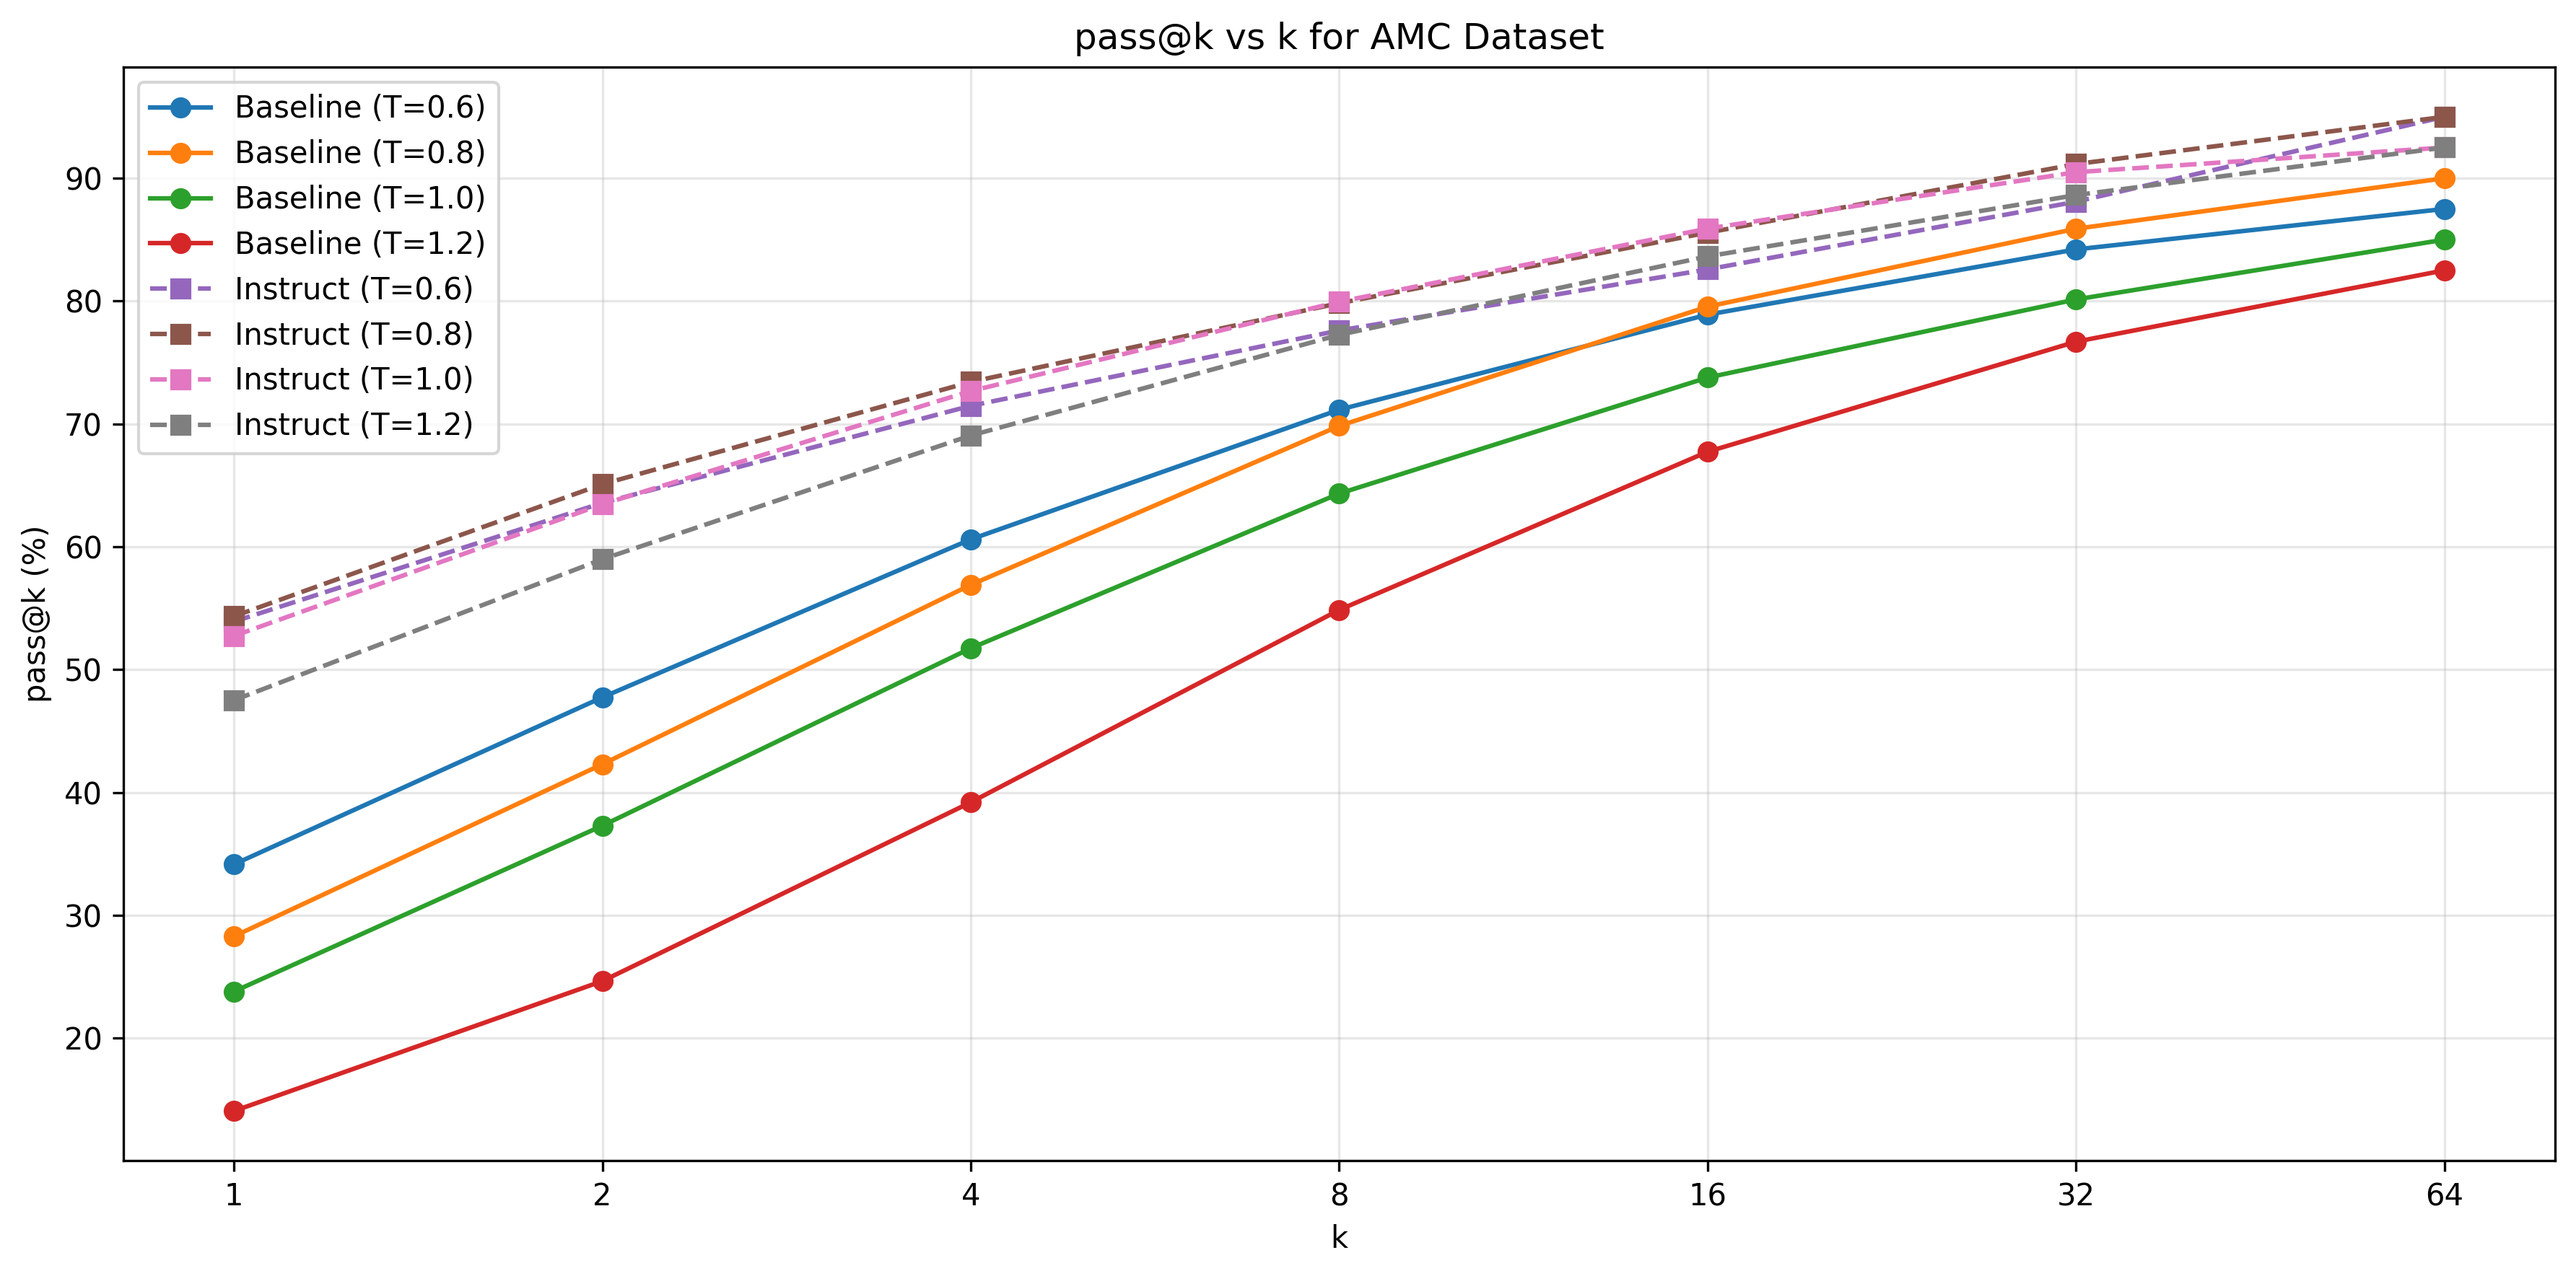
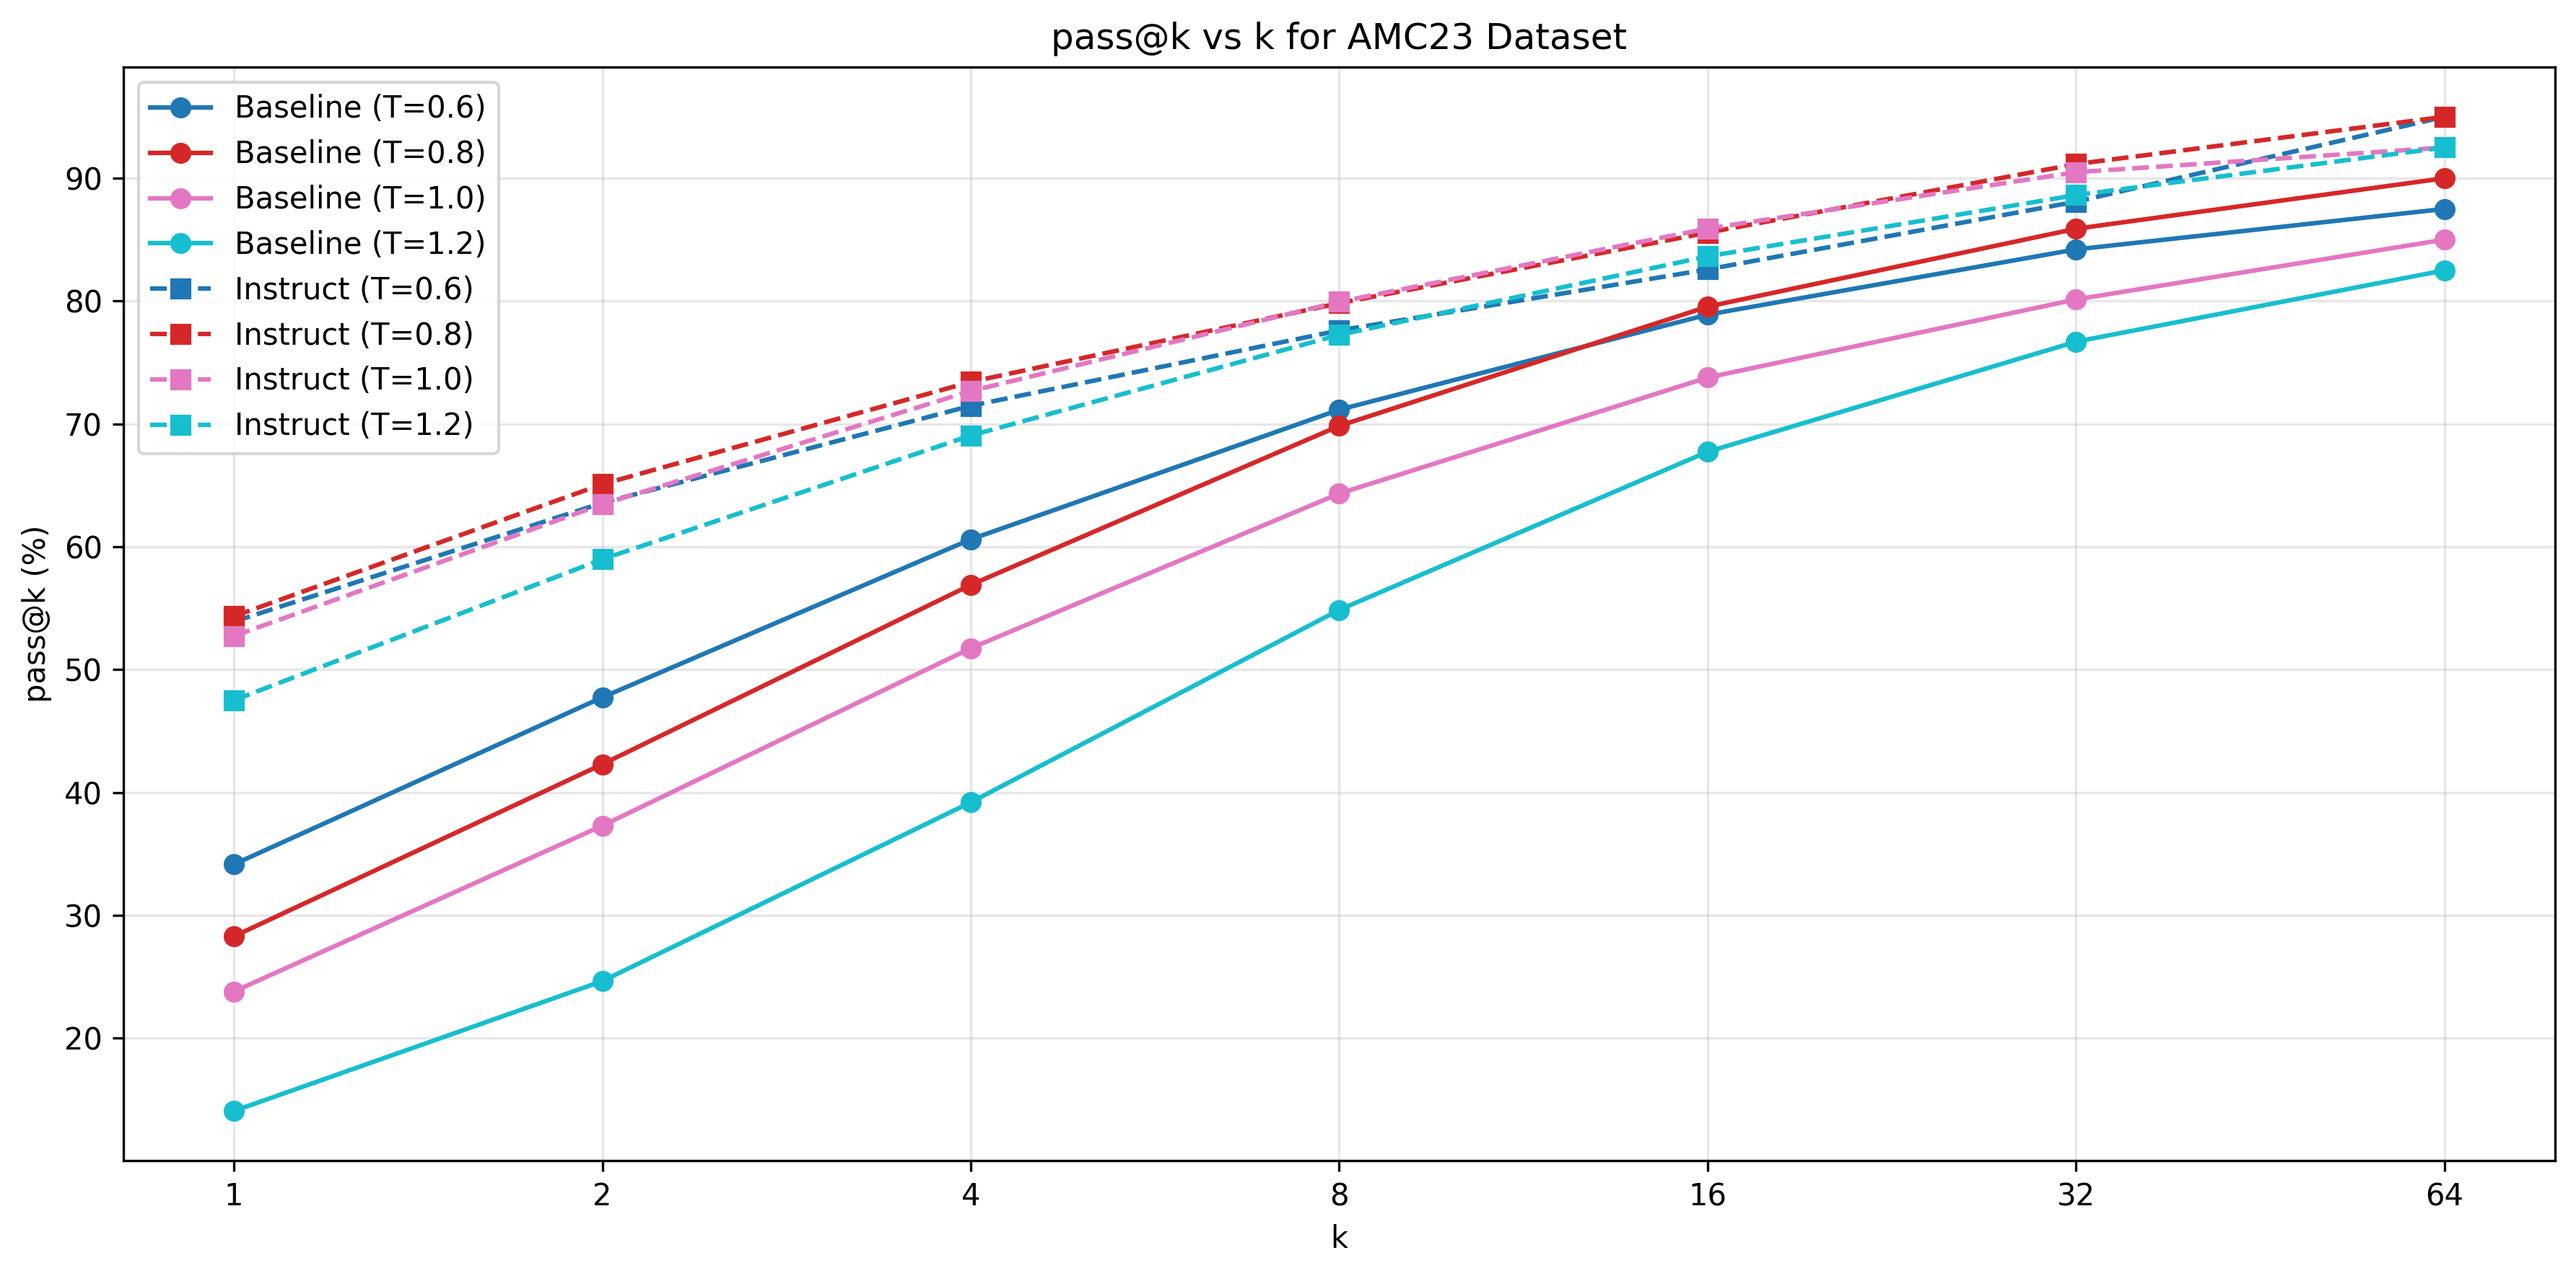
improve AMC23 plots and add majority vote data export
- Update plot titles to include AMC23 prefix for consistency
- Enhance pass@k curve visualization with distinct colors and styles
- Add JSON export for majority vote improvement data
- Change base_dir to relative path for portability

diff --git a/analyze_amc_example.py b/analyze_amc_example.py
@@ -198,7 +198,7 @@ def plot_temperature_effects(results: Dict) -> None:
         instruct_values = [results['instruct'][temp][metric] for temp in temperatures]
         plt.plot(temperatures, instruct_values, 's--', label='Instruct', linewidth=2)
 
-        plt.title(metric)
+        plt.title(f'AMC23 - {metric}')
         plt.xlabel('Temperature')
         plt.ylabel('Accuracy (%)')
         plt.xticks(temperatures)
@@ -235,7 +235,7 @@ def plot_model_comparison(results: Dict) -> None:
         instruct_values = [results['instruct'][temp][metric] for temp in temperatures]
         plt.bar(x + width/2, instruct_values, width, label='Instruct', color='#ff7f0e')
 
-        plt.title(f'{metric} - Baseline vs Instruct')
+        plt.title(f'AMC23 - {metric} - Baseline vs Instruct')
         plt.xlabel('Temperature')
         plt.ylabel('Accuracy (%)')
         plt.xticks(x, temperatures)
@@ -252,17 +252,32 @@ def plot_pass_at_k_curve(results: Dict) -> None:
 
     plt.figure(figsize=(12, 6))
 
+    # Get all unique temperatures across both models and sort them
+    all_temperatures = sorted(set(results['baseline'].keys()) | set(results['instruct'].keys()))
+
+    # Create a color map with unique colors for each temperature
+    color_map = plt.get_cmap('tab10', len(all_temperatures))
+    temp_to_color = {temp: color_map(i) for i, temp in enumerate(all_temperatures)}
+
+    # Model style mapping: different line styles and markers for different models
+    model_styles = {
+        'baseline': {'marker': 'o', 'linestyle': '-'},
+        'instruct': {'marker': 's', 'linestyle': '--'}
+    }
+
     # Baseline model
     for temp in sorted(results['baseline'].keys()):
         values = [results['baseline'][temp][f'pass@{k}'] for k in ks]
-        plt.plot(ks, values, 'o-', label=f'Baseline (T={temp})')
+        color = temp_to_color[temp]
+        plt.plot(ks, values, marker='o', linestyle='-', color=color, label=f'Baseline (T={temp})')
 
     # Instruct model
     for temp in sorted(results['instruct'].keys()):
         values = [results['instruct'][temp][f'pass@{k}'] for k in ks]
-        plt.plot(ks, values, 's--', label=f'Instruct (T={temp})')
+        color = temp_to_color[temp]
+        plt.plot(ks, values, marker='s', linestyle='--', color=color, label=f'Instruct (T={temp})')
 
-    plt.title('pass@k vs k for AMC Dataset')
+    plt.title('pass@k vs k for AMC23 Dataset')
     plt.xlabel('k')
     plt.ylabel('pass@k (%)')
     plt.xscale('log', base=2)
@@ -319,7 +334,7 @@ def plot_majority_vote_improvement(results: Dict) -> None:
     # Add zero line
     plt.axhline(y=0, color='black', linestyle='--', alpha=0.5)
 
-    plt.title('Majority Vote Improvement over pass@1')
+    plt.title('AMC23 - Majority Vote Improvement over pass@1')
     plt.xlabel('Temperature')
     plt.ylabel('Improvement (%)')
     plt.xticks(x, temperatures)
@@ -336,7 +351,7 @@ def main():
     os.makedirs('./visualizations', exist_ok=True)
 
     # Load AMC data
-    base_dir = '/Users/heyujie/Documents/cuhksz-all-sync/code/dda5001_hw/final_project/part3/res/cleaned'
+    base_dir = './res/cleaned'
     print(f"Loading AMC data from {base_dir}...")
     amc_data = load_amc_data(base_dir)
 
@@ -374,6 +389,27 @@ def main():
 
     # Export the formatted DataFrame
     df_csv.to_csv('./visualizations/amc_results_summary.csv', index=False)
+
+    # Generate majority vote improvements JSON for cross-validation
+    improvement_data = {'amc': []}
+    for model_type in results.keys():
+        for temp in sorted(results[model_type].keys()):
+            pass1 = results[model_type][temp]['pass@1']
+            maj1 = results[model_type][temp]['maj@1']
+            improvement = maj1 - pass1
+            improvement_data['amc'].append({
+                'model_type': model_type,
+                'temperature': temp,
+                'pass@1': float(f"{pass1:.2f}"),
+                'maj@1': float(f"{maj1:.2f}"),
+                'improvement': float(f"{improvement:.2f}")
+            })
+
+    # Save improvement data to JSON file
+    with open('./visualizations/amc_majority_vote_improvements.json', 'w', encoding='utf-8') as f:
+        json.dump(improvement_data, f, indent=2, ensure_ascii=False)
+
+    print("Saved AMC majority vote improvements to ./visualizations/amc_majority_vote_improvements.json")
 
     # Generate visualizations
     print("\nGenerating visualizations...")
